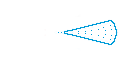
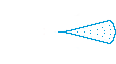
improved melee mask, prepared eliptical distance variables, fixed reversed matrix player starting position bug

Changed region(s): [[0.4655, 0.2812, 1.0, 0.6875], [0.8017, 0.5312, 0.8534, 0.5625]]

diff --git a/utilities/level_painter.py b/utilities/level_painter.py
@@ -19,10 +19,11 @@ def set_player_tile_index():
         for col_index,cell in enumerate(level_layout_row):
             if cell_is_starting_position(row_index,col_index,cell):
                 player_starting_tile_index = row_index,col_index
+                print(f"hero starting tile: {player_starting_tile_index}")
                 entity_manager.hero.tile_index = player_starting_tile_index
 
 def set_player_position_on_map():
-    entity_manager.hero.map_position = TILE_SIZE[0]//2+(48*entity_manager.hero.tile_index[0])+screen_width//2,TILE_SIZE[1]//2+(48*entity_manager.hero.tile_index[1]+screen_height//2)
+    entity_manager.hero.map_position = TILE_SIZE[0]//2+(48*entity_manager.hero.tile_index[1])+screen_width//2,TILE_SIZE[1]//2+(48*entity_manager.hero.tile_index[0]+screen_height//2)
     level
 
 def create_all_level_tiles():
@@ -34,11 +35,10 @@ def create_all_level_tiles():
     for row_index,level_layout_row in enumerate(level):
         for col_index,cell in enumerate(level_layout_row):
             type = cell
-            level_position_index = row_index,col_index
             tile_index = row_index,col_index
             position = get_tile_position(tile_index)
             vicinity_matrix = get_vicinity_matrix_for_tile_index(tile_index)
-            create_level_tile(type,level_position_index,position,TILE_SIZE,vicinity_matrix)
+            create_level_tile(type,tile_index,position,TILE_SIZE,vicinity_matrix)
     
     generate_pathfinding_matrix()
 
@@ -58,8 +58,8 @@ def cell_is_starting_position(row_index,col_index,cell):
     return False
 
 def get_tile_position(tile_index):
-    index_distance_x = tile_index[1] - player_starting_tile_index[1]
     index_distance_y = tile_index[0] - player_starting_tile_index[0]
+    index_distance_x = tile_index[1] - player_starting_tile_index[1]
 
     distance_x = TILE_SIZE[0]*index_distance_x
     distance_y = TILE_SIZE[1]*index_distance_y

diff --git a/utilities/entity_manager.py b/utilities/entity_manager.py
@@ -75,19 +75,36 @@ def update_non_player_group_entities_position(vector,entities):
 
 #Monster generation
 def generate_monsters():
-    generate_monster(ETTIN,(3,4))
-    generate_monster(ETTIN, (5,6))
-    generate_monster(ETTIN, (4,1))
-    generate_monster(ETTIN, (7,3))
-    generate_monster(ETTIN, (7,8))
-    generate_monster(ETTIN, (6,7))
-    generate_monster(ETTIN,(11,22))
-    generate_monster(ETTIN, (11,23))
-    generate_monster(ETTIN, (11,24))
-    generate_monster(ETTIN, (10,22))
-    generate_monster(ETTIN, (10,23))
-    generate_monster(ETTIN, (10,24))
-    # pass
+    generate_monster(ETTIN,(4,2))
+    # generate_monster(ETTIN, (5,6))
+    # generate_monster(ETTIN, (4,1))
+    # generate_monster(ETTIN, (7,3))
+    # generate_monster(ETTIN, (7,8))
+    # generate_monster(ETTIN, (6,7))
+    # generate_monster(ETTIN,(11,22))
+    # generate_monster(ETTIN, (11,23))
+    # generate_monster(ETTIN, (11,24))
+    # generate_monster(ETTIN, (10,22))
+    # generate_monster(ETTIN, (10,23))
+    # generate_monster(ETTIN, (10,24))
+    # generate_monster(ETTIN, (10,25))
+    # generate_monster(ETTIN, (3,25))
+    # generate_monster(ETTIN, (3,26))
+    # generate_monster(ETTIN, (3,24))
+    # generate_monster(ETTIN, (3,23))
+    # generate_monster(ETTIN, (4,25))
+    # generate_monster(ETTIN, (4,26))
+    # generate_monster(ETTIN, (4,24))
+    # generate_monster(ETTIN, (4,23))
+    # generate_monster(ETTIN, (4,25))
+    # generate_monster(ETTIN, (4,26))
+    # generate_monster(ETTIN, (2,24))
+    # generate_monster(ETTIN, (2,23))
+    # generate_monster(ETTIN, (2,25))
+    # generate_monster(ETTIN, (2,26))
+    # generate_monster(ETTIN, (2,27))
+    # generate_monster(ETTIN, (4,22))
+    pass
 
 def generate_monster(monster_type, tile_index):
     if monster_type == ETTIN:

diff --git a/main.py b/main.py
@@ -104,10 +104,10 @@ def draw_sprites():
 
     # for tile in entity_manager.level_sprite_groups:
     #     tile.draw(screen)
-    for melee_sector_sprite_group in entity_manager.melee_sector_sprite_groups:
-        melee_sector_sprite_group.draw(screen)
-    for entity_collision_sprite_group in entity_manager.entity_collision_sprite_groups:
-        entity_collision_sprite_group.draw(screen)
+    # for melee_sector_sprite_group in entity_manager.melee_sector_sprite_groups:
+    #     melee_sector_sprite_group.draw(screen)
+    # for entity_collision_sprite_group in entity_manager.entity_collision_sprite_groups:
+    #     entity_collision_sprite_group.draw(screen)
     for shadow in entity_manager.shadow_sprite_groups:
         shadow.draw(screen)
     for entity in entity_manager.entity_sprite_groups:
@@ -147,7 +147,7 @@ while True:
     # util.draw_pathfinding_path_for_monster(1)
     # util.draw_pathfinding_path_for_monster(2)
     # util.draw_pathfinding_path_for_monster(3)
-    debug_text(f"108 tile_index: {entity_manager.level_sprite_groups[108].sprite.tile_index}",x = 10, y = 45)
+    debug_text(f"109 tile_index: {entity_manager.level_sprite_groups[109].sprite.tile_index}",x = 10, y = 45)
     debug_text(f"mon 0 map_pos: {entity_manager.get_entity_sprite_by_id(0).map_position}",x = 10, y = 60)
     debug_text(f"mon 0 tile_index: {entity_manager.get_entity_sprite_by_id(0).tile_index}",x = 10, y = 75)
     # debug_text(f"mon 1 map_pos: {entity_manager.get_entity_sprite_by_id(1).tile_index}",x = 10, y = 90)

diff --git a/utilities/collision_manager.py b/utilities/collision_manager.py
@@ -66,14 +66,15 @@ def monster_vs_monster_collision(character_sprite):
         if colliding_entity_sprite != entity_manager.hero and character_sprite != colliding_entity_sprite:
             
             if not entity_sprite_group.sprite.is_corpse:
-                character_collider = character_sprite.entity_collider_omni
-                entity_collider = colliding_entity_sprite.entity_collider_omni.rect
-                
-                if character_collider.rect.colliderect(entity_collider):
-                    collision_matrix = get_collision_matrix(character_sprite,colliding_entity_sprite)
+                if entity_in_vicinity(character_sprite,colliding_entity_sprite):
+                    character_collider = character_sprite.entity_collider_omni
+                    entity_collider = colliding_entity_sprite.entity_collider_omni.rect
+                    
+                    if character_collider.rect.colliderect(entity_collider):
+                        collision_matrix = get_collision_matrix(character_sprite,colliding_entity_sprite)
 
-                    if any_sector_collider_collides(collision_matrix):
-                        adjust_monster_movement_vector(character_sprite, collision_matrix)
+                        if any_sector_collider_collides(collision_matrix):
+                            adjust_monster_movement_vector(character_sprite, collision_matrix)
 
 def projectile_collision(projectile_sprite):
     #Projectile collision logic

diff --git a/entities/level/level.py b/entities/level/level.py
@@ -22,10 +22,10 @@ test_map = [
 ]
 
 level_01_map = [
-"XXEEEXXXXXXXXXXXXXXXXXXXXXXXXXXXXXX",
-"XXEEEXXXXXXX     XXXX           XXX",
-"XXEEEXXXXX        XX           XXXX",
-"XX   XXXXXXXX     XX           XX X",
+"XXXEEEXXXXXXXXXXXXXXXXXXXXXXXXXXXXX",
+"XXXEEEXXXXXX     XXXX           XXX",
+"XXXEEEXXXXX       XX           XXXX",
+"XX    XXXXXXX     XX           XX X",
 "X        XXXX                  XX X",
 "X   *    XXXX         XXXX   ``   X",
 "XXO           O       XXXX   ``XXXX",

diff --git a/entities/characters/ettin.py b/entities/characters/ettin.py
@@ -102,6 +102,10 @@ class Ettin(pygame.sprite.Sprite):
         self.health = 10
         self.maxhealth = 10
         self.damage = 0
+        self.x_range = 58
+        self.y_range = 32
+        self.x_size = 20
+        self.y_size = 11
         self.attack_interruption_chance = 50
         self.attack_can_be_interrupted = True
         self.can_shoot = False

diff --git a/utilities/monster_ai.py b/utilities/monster_ai.py
@@ -8,8 +8,6 @@ from utilities.constants import *
 class Ai():
     def __init__(self,owner, pathfinding_matrix, tile_index):
         self.monster = owner
-        self.moving_direction = SECTOR_S
-        self.player_direction_sector = SECTOR_S
 
         self.direction_change_decision_timer = 0.0
         self.direction_change_decision_timer_limit = 6

diff --git a/entities/characters/player.py b/entities/characters/player.py
@@ -99,6 +99,10 @@ class Hero(pygame.sprite.Sprite):
         self.health = 20
         self.maxhealth = 20
         self.damage = 4
+        self.x_range = 58
+        self.y_range = 32
+        self.x_size = 20
+        self.y_size = 11
         self.attack_can_be_interrupted = False
         self.can_shoot = False
         self.projectile_type = None
